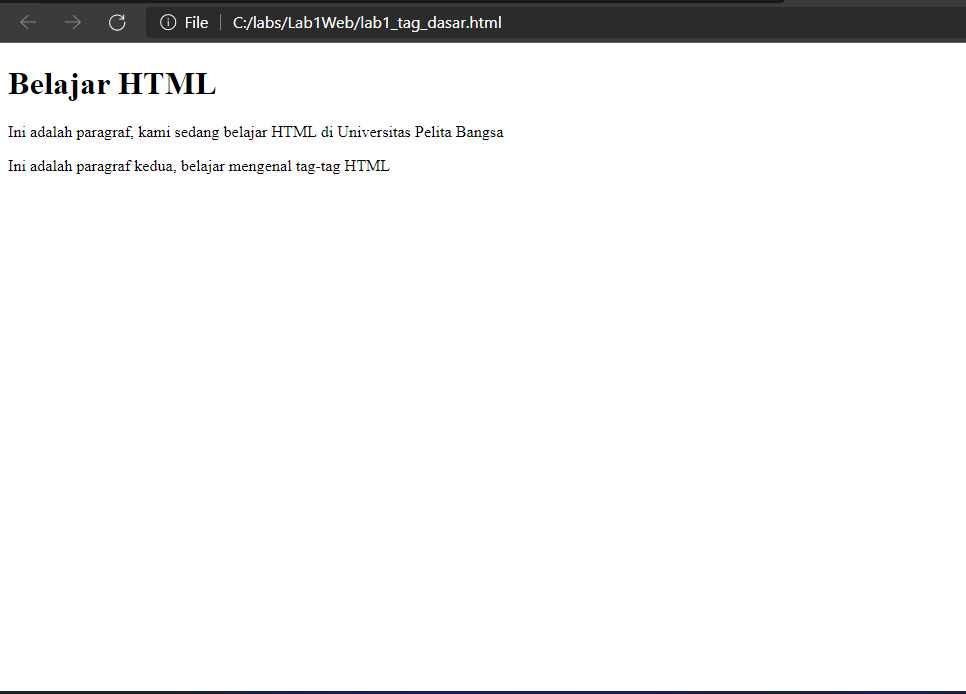
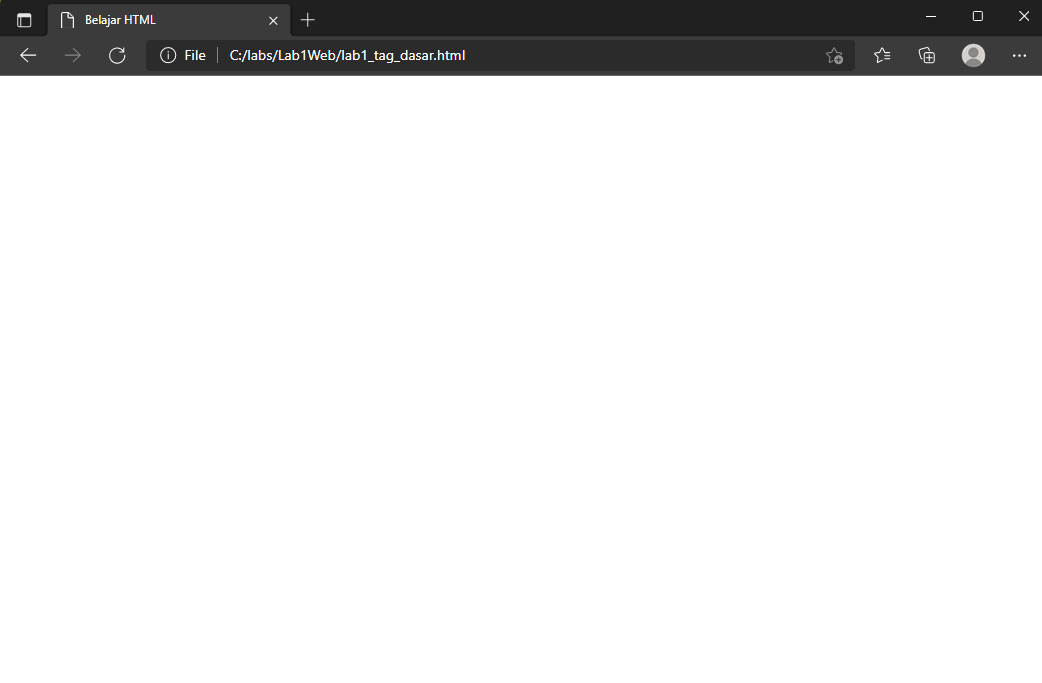
mengubah teks

Changed region(s): [[0.0, 0.0, 1.0, 0.1537], [0.0, 0.9839, 1.0, 1.0], [0.0, 0.1845, 0.528, 0.246]]

diff --git a/lab1_tag_dasar.html b/lab1_tag_dasar.html
@@ -7,8 +7,19 @@
     <title>Belajar HTML</title>
 </head>
 <body>
-    <h1>Belajar HTML</h1>
-    <P>Ini adalah paragraf, kami sedang belajar HTML di Universitas Pelita Bangsa</P>
-    <P>Ini adalah paragraf kedua, belajar mengenal tag-tag HTML</P>
+<!-- Ini adalah paragraf pertama -->
+<h1>Belajar Dasar HTML</h1>
+    <p align="center">Kami sedang belajar <span style="background-color: blue">HTML dasar</span>, pada matakuliah Pemrograman Web di Prodi <i>
+    Teknik Informatika</i> <u>Universitas Pelita Bangsa.</u> Pelajaran pertama yang kami dapat
+    adalah membuat tampilan web sederhana dalam rangka mengenal tag-tag dasar
+    HTML.</p>
+ <!-- Ini adalah paragraf kedua -->
+ <h2>Paragraf pada HTML</h2>
+    <p align="justify">Ini merupakan sebuah paragraf yang terdiri dari beberapa kalimat yang saling
+    mendukung sehingga menjadi satu kesatuan. Paragraf dibuat dengan menggunakan
+    tag dasar html.</p>
+<!-- sub judul paragraf -->
+<h3>Menambahkan Gambar</h3>
+    <img src="Logo UPB.png" width="200" title="Logo Univeritas Pelita Bangsa">
 </body>
 </html>
